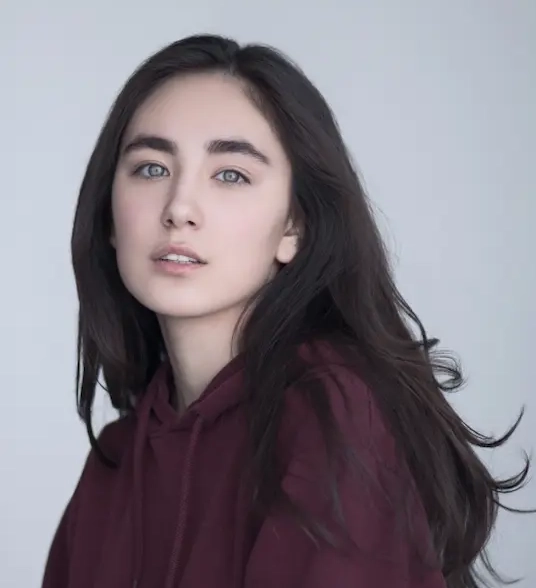
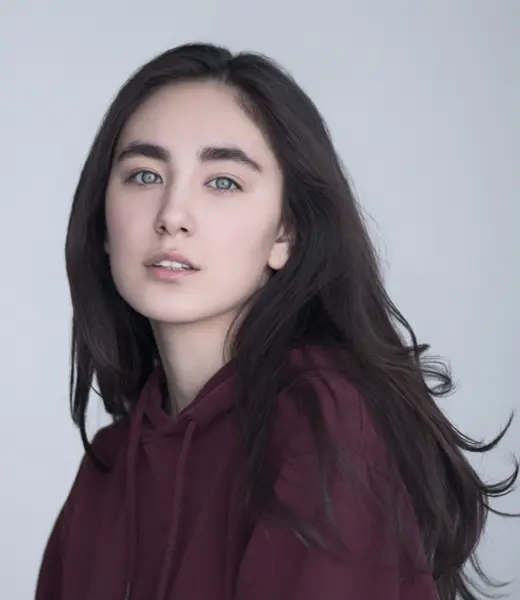
judges tablet

diff --git a/source/index.html b/source/index.html
@@ -240,7 +240,7 @@
                     <div class="judges-card__image">
                       <picture>
                         <source media="(max-width: 767px)" srcset="img/anna-mobile-1x.webp 1x, img/anna-mobile-2x.webp 2x" width="226" height="274" type="image/webp">
-                        <source media="(max-width: 1365px)" srcset="img/anna-tablet-1x.webp 1x, img/anna-tablet-1x.webp 2x" width="268" height="294" type="image/webp">
+                        <source media="(max-width: 1365px)" srcset="img/anna-tablet-1x.webp 1x, img/anna-tablet-1x.webp 2x" width="260" height="300" type="image/webp">
                         <img src="img/anna-1x.webp" srcset="img/anna-2x.webp" width="260" height="294" alt="Анна Павлова">
                       </picture>
                     </div>
@@ -261,7 +261,7 @@
                     <div class="judges-card__image">
                       <picture>
                         <source media="(max-width: 767px)" srcset="img/alexy-mobile-1x.webp 1x, img/alexy-mobile-2x.webp 2x" width="226" height="274" type="image/webp">
-                        <source media="(max-width: 1365px)" srcset="img/alexy-tablet-1x.webp 1x, img/alexy-tablet-2x.webp 2x" width="268" height="294" type="image/webp">
+                        <source media="(max-width: 1365px)" srcset="img/alexy-tablet-1x.webp 1x, img/alexy-tablet-2x.webp 2x" width="260" height="300" type="image/webp">
                         <img src="img/alexy-1x.webp" srcset="img/alexy-2x.webp" width="260" height="294" alt="Алексей Лавров">
                       </picture>
                     </div>
@@ -282,7 +282,7 @@
                     <div class="judges-card__image">
                       <picture>
                         <source media="(max-width: 767px)" srcset="img/alexandr-mobile-1x.webp 1x, img/alexandr-mobile-2x.webp 2x" width="226" height="274" type="image/webp">
-                        <source media="(max-width: 1365px)" srcset="img/alexandr-tablet-1x.webp 1x, img/alexandr-tablet-2x.webp 2x" width="268" height="294" type="image/webp">
+                        <source media="(max-width: 1365px)" srcset="img/alexandr-tablet-1x.webp 1x, img/alexandr-tablet-2x.webp 2x" width="260" height="300" type="image/webp">
                         <img src="img/alexandr-1x.webp" srcset="img/alexandr-2x.webp" width="260" height="294" alt="Александр Пашков">
                       </picture>
                     </div>
@@ -303,7 +303,7 @@
                     <div class="judges-card__image">
                       <picture>
                         <source media="(max-width: 767px)" srcset="img/mary-mobile-1x.webp 1x, img/mary-mobile-2x.webp 2x" width="226" height="274" type="image/webp">
-                        <source media="(max-width: 1365px)" srcset="img/mary-tablet-1x.webp 1x, img/mary-tablet-2x.webp 2x" width="268" height="294" type="image/webp">
+                        <source media="(max-width: 1365px)" srcset="img/mary-tablet-1x.webp 1x, img/mary-tablet-2x.webp 2x" width="260" height="300" type="image/webp">
                         <img src="img/mary-1x.webp" srcset="img/mary-2x.webp" width="260" height="294" alt="Мария Кетова">
                       </picture>
                     </div>
@@ -324,7 +324,7 @@
                     <div class="judges-card__image">
                       <picture>
                         <source media="(max-width: 767px)" srcset="img/anna-mobile-1x.webp 1x, img/anna-mobile-2x.webp 2x" width="226" height="274" type="image/webp">
-                        <source media="(max-width: 1365px)" srcset="img/anna-tablet-1x.webp 1x, img/anna-tablet-2x.webp 2x" width="268" height="294" type="image/webp">
+                        <source media="(max-width: 1365px)" srcset="img/anna-tablet-1x.webp 1x, img/anna-tablet-2x.webp 2x" width="260" height="300" type="image/webp">
                         <img src="img/anna-1x.webp" srcset="img/anna-2x.webp" width="260" height="294" alt="Анна Павлова">
                       </picture>
                     </div>
@@ -345,7 +345,7 @@
                     <div class="judges-card__image">
                       <picture>
                         <source media="(max-width: 767px)" srcset="img/alexy-mobile-1x.webp 1x, img/alexy-mobile-2x.webp 2x" width="226" height="274" type="image/webp">
-                        <source media="(max-width: 1365px)" srcset="img/alexy-tablet-1x.webp 1x, img/alexy-tablet-2x.webp 2x" width="268" height="294" type="image/webp">
+                        <source media="(max-width: 1365px)" srcset="img/alexy-tablet-1x.webp 1x, img/alexy-tablet-2x.webp 2x" width="260" height="300" type="image/webp">
                         <img src="img/alexy-1x.webp" srcset="img/alexy-2x.webp" width="260" height="294" alt="Алексей Лавров">
                       </picture>
                     </div>
@@ -366,7 +366,7 @@
                     <div class="judges-card__image">
                       <picture>
                         <source media="(max-width: 767px)" srcset="img/alexandr-mobile-1x.webp 1x, img/alexandr-mobile-2x.webp 2x" width="226" height="274" type="image/webp">
-                        <source media="(max-width: 1365px)" srcset="img/alexandr-tablet-1x.webp 1x, img/alexandr-tablet-2x.webp 2x" width="268" height="294" type="image/webp">
+                        <source media="(max-width: 1365px)" srcset="img/alexandr-tablet-1x.webp 1x, img/alexandr-tablet-2x.webp 2x" width="260" height="300" type="image/webp">
                         <img src="img/alexandr-1x.webp" srcset="img/alexandr-2x.webp" width="260" height="294" alt="Александр Пашков">
                       </picture>
                     </div>
@@ -387,7 +387,7 @@
                     <div class="judges-card__image">
                       <picture>
                         <source media="(max-width: 767px)" srcset="img/mary-mobile-1x.webp 1x, img/mary-mobile-2x.webp 2x" width="226" height="274" type="image/webp">
-                        <source media="(max-width: 1365px)" srcset="img/mary-tablet-1x.webp 1x, img/mary-tablet-2x.webp 2x" width="268" height="294" type="image/webp">
+                        <source media="(max-width: 1365px)" srcset="img/mary-tablet-1x.webp 1x, img/mary-tablet-2x.webp 2x" width="260" height="300" type="image/webp">
                         <img src="img/mary-1x.webp" srcset="img/mary-2x.webp" width="260" height="294" alt="Мария Кетова">
                       </picture>
                     </div>

diff --git a/source/sass/blocks/judges.scss b/source/sass/blocks/judges.scss
@@ -2,7 +2,7 @@
   padding: 140px 0 100px;
 
   @include vp-1365 {
-    padding: 42px 0 100px;
+    padding: 36px 0 60px;
   }
 
   @include vp-767 {
@@ -16,9 +16,10 @@
   width: max-content;
 
   @include vp-1365 {
-    margin: 0 auto 39px;
+    margin: 0 auto 52px;
+    font-size: 54px;
     text-align: center;
-    letter-spacing: 1.55px;
+    letter-spacing: -0.5px;
   }
 
   @include vp-767 {
@@ -32,7 +33,7 @@
   padding: 0 60px;
 
   @include vp-1365 {
-    max-width: 686px;
+    max-width: 680px;
   }
 
   @include vp-767 {
@@ -52,7 +53,8 @@
   }
 
   @include vp-1365 {
-    left: -13px;
+    left: -10px;
+    top: 50%;
   }
 
   @include vp-767 {
@@ -77,7 +79,8 @@
   }
 
   @include vp-1365 {
-    right: -13px;
+    right: -10px;
+    top: 50%;
   }
 
   @include vp-767 {

diff --git a/source/js/modules/slider.js b/source/js/modules/slider.js
@@ -17,7 +17,7 @@ export const slider = new Swiper('.judges__wrapper', {
     },
     768: {
       slidesPerView: 2,
-      spaceBetween: 32,
+      spaceBetween: 40,
     },
     1366: {
       slidesPerView: 4,
